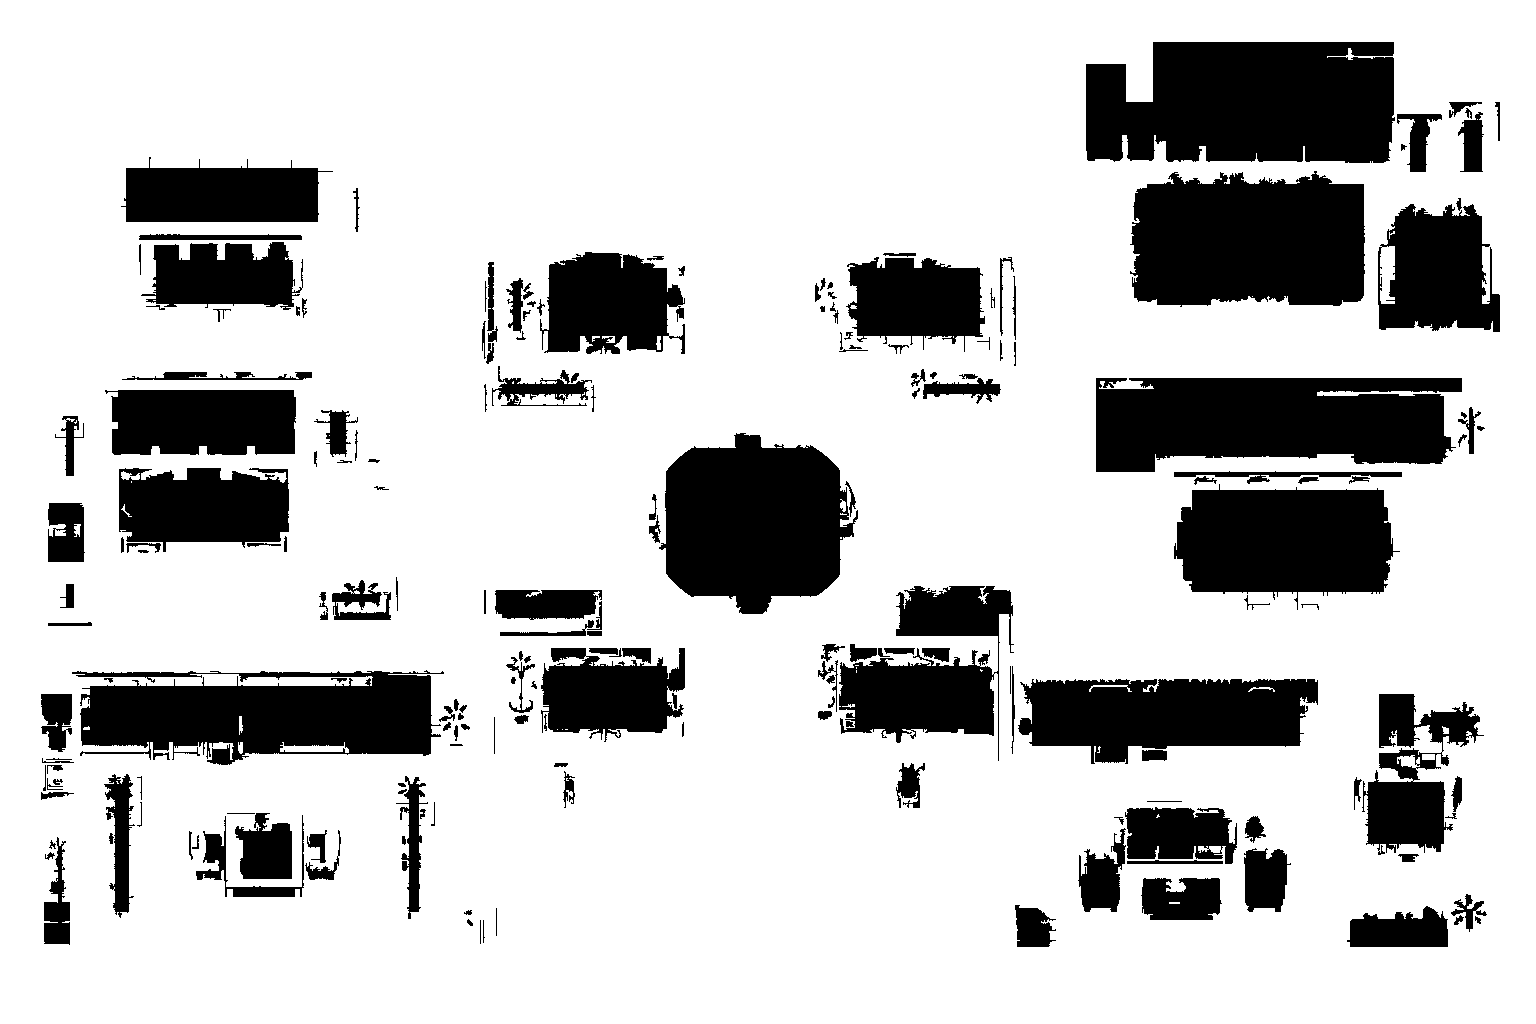
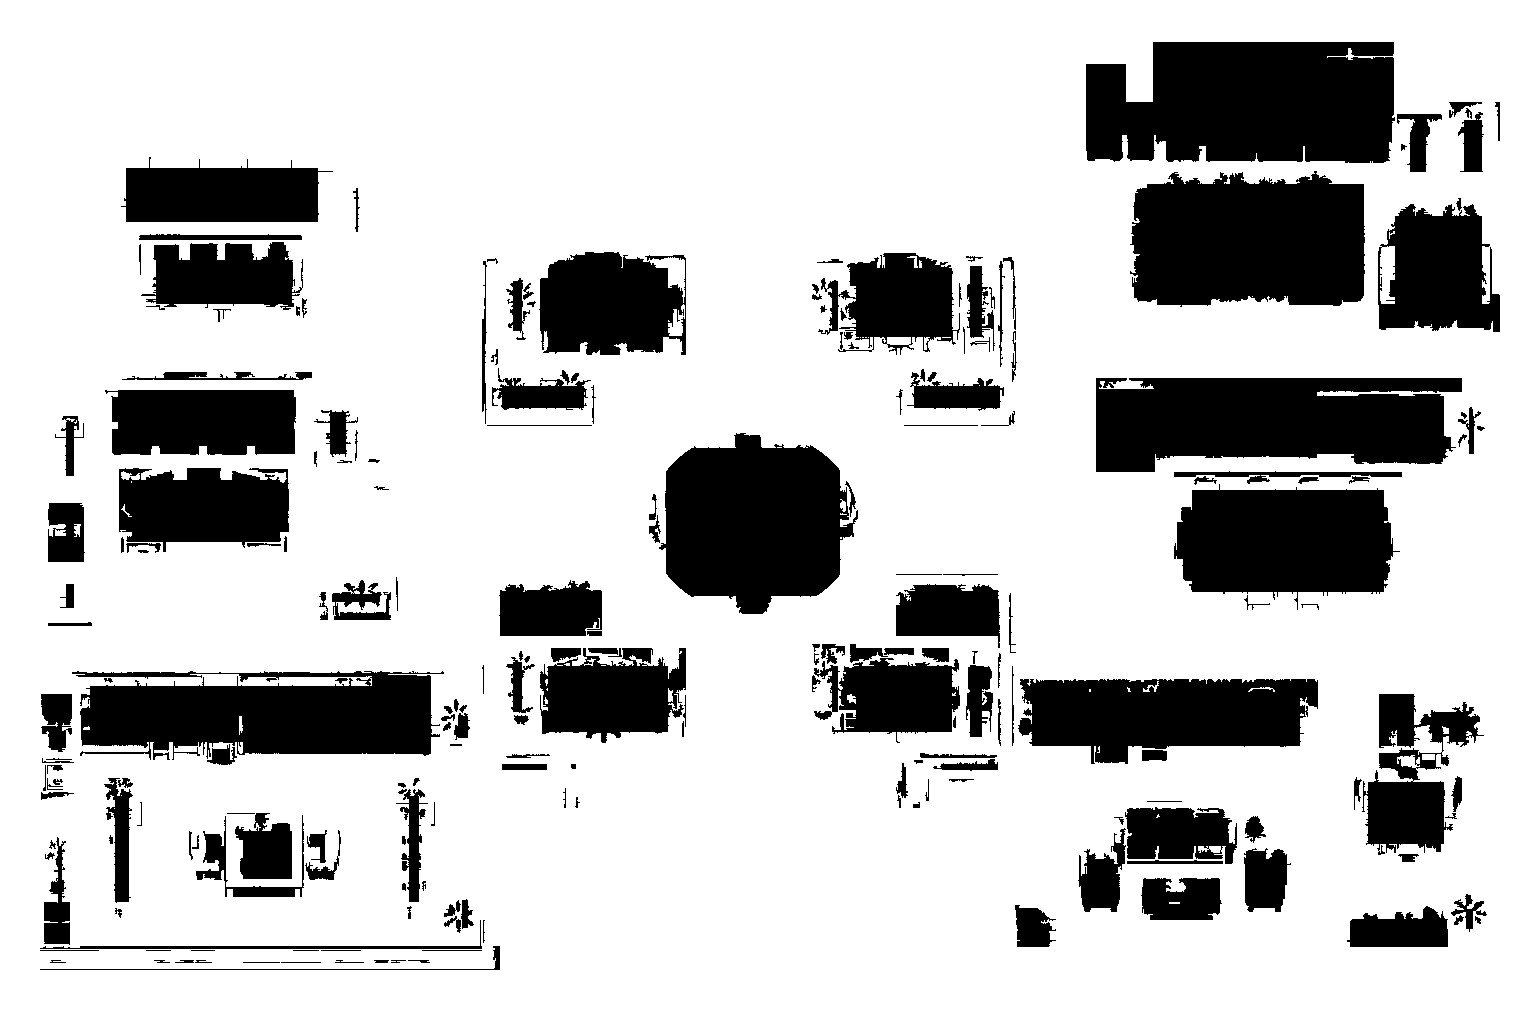
fix(collider): resolve obstacle clipping for SW pod doorway partition and archive library corner

diff --git a/tools/build_campus_layout.py b/tools/build_campus_layout.py
@@ -39,8 +39,8 @@ FLOORS: list[tuple[int, int, int, int]] = [
     # Security Watch
     (88, 378, 400, 622),
     # Archive Library, plus the east aisle running up beside the shelves
-    (76, 762, 470, 947),
-    (444, 642, 479, 947),
+    (76, 762, 470, 946),
+    (440, 642, 480, 882),
     # Data Garden
     (1085, 160, 1500, 330),
     # Briefing Room
@@ -84,12 +84,13 @@ OBSTACLES: list[dict] = [
     dict(id="archive-wall-shelves", rect=(72, 668, 444, 760), through=True),
     dict(id="archive-dresser-a", rect=(40, 694, 80, 770), through=True),
     dict(id="archive-dresser-b", rect=(202, 716, 244, 766)),
-    dict(id="archive-plant-ne", rect=(441, 698, 476, 752), through=True),
-    dict(id="archive-shelf-left", rect=(97, 766, 147, 930), through=True),
-    dict(id="archive-shelf-right", rect=(391, 766, 437, 930), through=True),
+    dict(id="archive-plant-ne", rect=(440, 698, 486, 756), through=True),
+    dict(id="archive-shelf-left", rect=(97, 778, 147, 920), through=True),
+    dict(id="archive-shelf-right", rect=(391, 778, 437, 920), through=True),
     dict(id="archive-cabinet-w", rect=(40, 828, 80, 948), through=True),
     dict(id="archive-plant-sw", rect=(40, 770, 80, 800)),
-    dict(id="archive-plant-se", rect=(464, 890, 500, 944), through=True),
+    dict(id="archive-plant-se", rect=(444, 882, 486, 946)), # Solid planter blocking corner
+    dict(id="archive-south-wall", rect=(40, 946, 500, 970)), # Solid south wall
     dict(id="archive-chair-left", rect=(189, 818, 233, 881)),
     dict(id="archive-chair-right", rect=(302, 818, 343, 881)),
     dict(id="archive-table", rect=(225, 813, 310, 897)),
@@ -118,27 +119,32 @@ OBSTACLES: list[dict] = [
     dict(id="pantry-planter-s", rect=(1341, 905, 1453, 947)),
     dict(id="pantry-plant-sw", rect=(1014, 905, 1056, 947)),
     dict(id="pantry-plant-se", rect=(1448, 891, 1491, 947)),
-    # Central hall - north pods. The pods sit on a raised deck, so their side
-    # walls block even though the deck itself is walkable.
-    dict(id="nw-pod-wall", rect=(482, 244, 498, 412)),
-    dict(id="ne-pod-wall", rect=(1000, 244, 1016, 412)),
-    dict(id="nw-desk", rect=(531, 250, 685, 354)),
-    dict(id="nw-plant", rect=(495, 263, 539, 349)),
-    dict(id="nw-planter", rect=(484, 366, 602, 412)),
-    dict(id="ne-desk", rect=(828, 250, 998, 354)),
-    dict(id="ne-plant", rect=(815, 263, 857, 349)),
-    dict(id="ne-planter", rect=(906, 366, 1018, 412)),
+    # Central hall - north pods
+    dict(id="nw-pod-wall", rect=(482, 244, 498, 426)),
+    dict(id="ne-pod-wall", rect=(1000, 244, 1018, 426)),
+    dict(id="nw-desk", rect=(530, 250, 686, 355)),
+    dict(id="nw-plant", rect=(495, 263, 540, 349)),
+    dict(id="nw-planter", rect=(484, 368, 602, 426)),
+    dict(id="ne-desk", rect=(814, 250, 970, 355)),
+    dict(id="ne-plant", rect=(812, 263, 856, 349)),
+    dict(id="ne-planter", rect=(896, 368, 1018, 426)),
+    dict(id="ne-cabinet", rect=(952, 248, 1000, 355)),
     # Central hall - command table
     dict(id="command-table", rect=(648, 430, 858, 614), shape="ellipse"),
     # Central hall - south pods
-    dict(id="sw-pod-wall", rect=(484, 614, 500, 764)),
-    dict(id="se-pod-wall", rect=(998, 614, 1014, 764)),
-    dict(id="sw-plant", rect=(503, 644, 540, 730)),
-    dict(id="se-plant", rect=(818, 644, 855, 730)),
-    dict(id="sw-planter", rect=(484, 590, 602, 636)),
-    dict(id="sw-desk", rect=(531, 648, 685, 747)),
-    dict(id="se-planter", rect=(896, 586, 1013, 636)),
-    dict(id="se-desk", rect=(839, 648, 998, 747)),
+    dict(id="sw-pod-wall", rect=(482, 574, 500, 786)),
+    dict(id="sw-pod-bottom-wall", rect=(484, 746, 594, 788)),
+    dict(id="sw-pod-bottom-post", rect=(558, 746, 594, 804)),
+    dict(id="sw-plant", rect=(495, 644, 540, 730)),
+    dict(id="sw-planter", rect=(484, 574, 602, 636)),
+    dict(id="sw-desk", rect=(530, 648, 686, 750)),
+    dict(id="se-pod-wall", rect=(998, 574, 1016, 786)),
+    dict(id="se-pod-bottom-wall", rect=(906, 746, 1016, 788)),
+    dict(id="se-pod-bottom-post", rect=(906, 746, 942, 804)),
+    dict(id="se-plant", rect=(812, 644, 856, 730)),
+    dict(id="se-planter", rect=(896, 574, 1016, 636)),
+    dict(id="se-desk", rect=(814, 648, 970, 750)),
+    dict(id="se-cabinet", rect=(952, 648, 1000, 755)),
     dict(id="south-planter-w", rect=(547, 763, 592, 808)),
     dict(id="south-planter-e", rect=(880, 763, 925, 808)),
 ]
